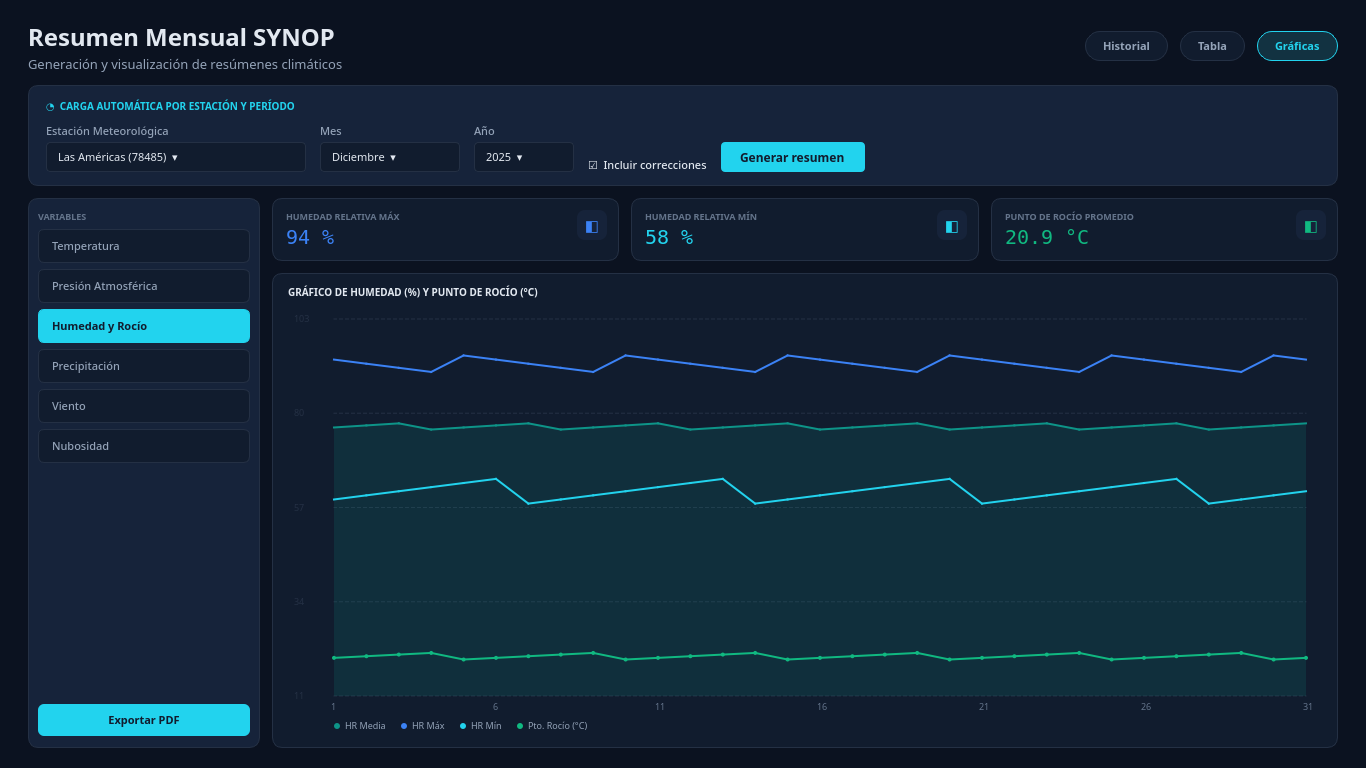
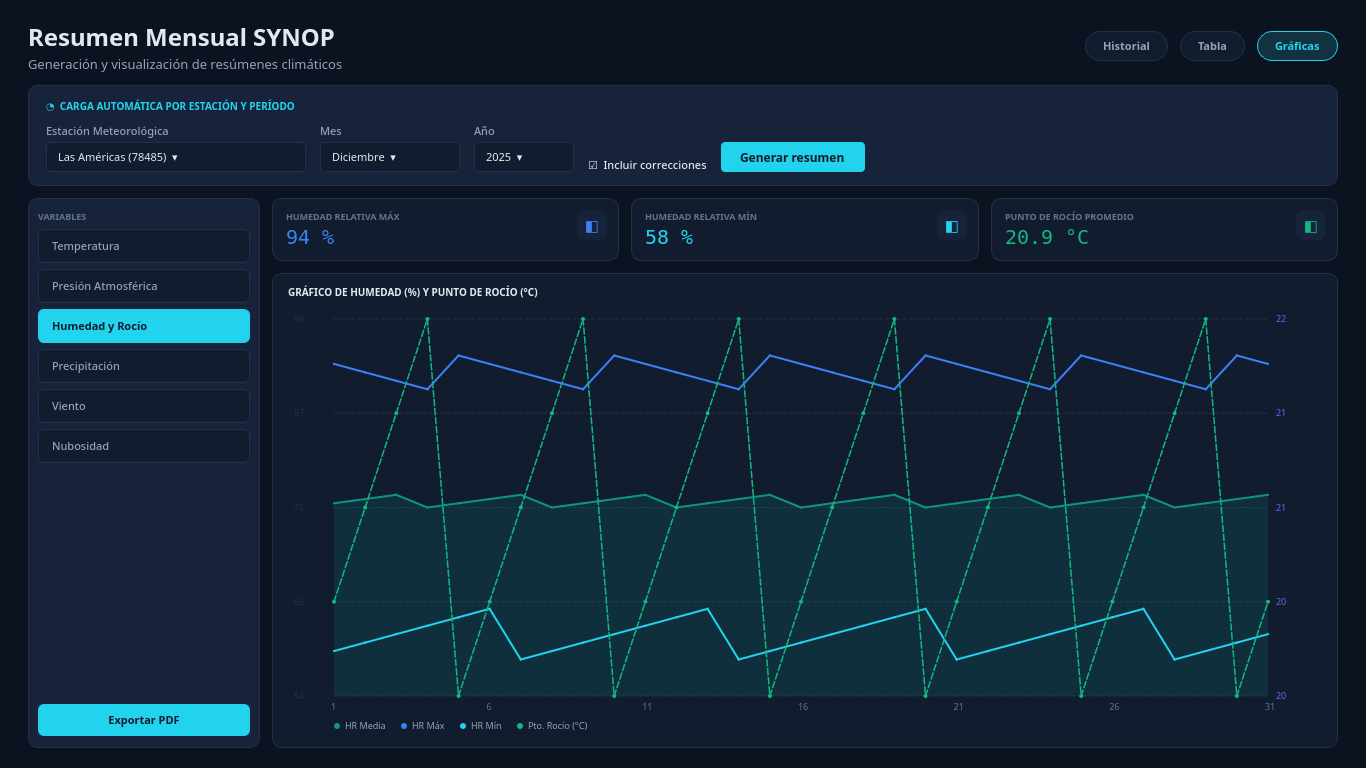
docs(diseno): resolver las tres decisiones y sumar soporte para daltonismo
D1 — una sola familia para todo, con `tnum`. Medido: la Jakarta empaquetada
tiene cifras proporcionales (1111 = 22,25 px, 0000 = 43,88 px), así que hoy
ninguna columna numérica puede alinear. Con `tnum` las cinco combinaciones
medidas dan 36,0 px. El woff2 sí lo carga Qt 6.12: no hay que cambiar formato
ni empaquetar una segunda familia.

D2 — gráficas con widget propio (QPainter), cero dependencias nuevas.

D3 — el punto de rocío pasa al eje derecho con su unidad. El mockup ya lo
muestra: izquierda 54–98 %, derecha 20–22 °C, rocío punteado.

S13 — accesibilidad al color: ninguna serie se distingue sólo por color. Se
agrega la paleta Okabe–Ito como «paleta accesible» conmutable en Apariencia y
se renderiza la humedad con las dos paletas para contrastarlas.

L7 — defecto a corregir en F7: el eje derecho repite etiquetas con rangos
chicos (22, 21, 21, 20, 20) porque redondea los cinco cortes al mismo entero.

diff --git a/tools/mockup_pantallas.py b/tools/mockup_pantallas.py
@@ -2169,12 +2169,35 @@ PANELES_B = {
 # cambia es el trazo (sin degradados: relleno plano con alfa).
 
 #: color de cada serie, tomado de OLD
-C_TMAX, C_TMIN, C_TMEDIA = "#ef4444", "#3b82f6", "#f59e0b"
-C_PMAX, C_PMIN, C_PMEDIA, C_PEST = "#ef4444", "#3b82f6", "#8b5cf6", "#64748b"
-C_HRMEDIA, C_HRMAX, C_HRMIN, C_ROCIO = "#0d9488", "#3b82f6", "#22d3ee", "#10b981"
-C_LLUVIA = "#3b82f6"
-C_VIENTO, C_RECORRIDO = "#06b6d4", "#6366f1"
-C_NUBMEDIA, C_NUBDIA, C_NUBNOCHE = "#f59e0b", "#3b82f6", "#64748b"
+_PALETA_SERIES = {
+    "tmax": "#ef4444", "tmin": "#3b82f6", "tmedia": "#f59e0b",
+    "pmax": "#ef4444", "pmin": "#3b82f6", "pmedia": "#8b5cf6", "pest": "#64748b",
+    "hrmedia": "#0d9488", "hrmax": "#3b82f6", "hrmin": "#22d3ee", "rocio": "#10b981",
+    "lluvia": "#3b82f6",
+    "viento": "#06b6d4", "recorrido": "#6366f1",
+    "nubmedia": "#f59e0b", "nubdia": "#3b82f6", "nubnoche": "#64748b",
+}
+
+#: Okabe–Ito: las ocho clases de color que se distinguen bajo cualquier tipo de
+#: daltonismo. Es la «Paleta accesible» de Configuración → Apariencia.
+_PALETA_SERIES_CVD = {
+    "tmax": "#D55E00", "tmin": "#0072B2", "tmedia": "#E69F00",
+    "pmax": "#D55E00", "pmin": "#0072B2", "pmedia": "#CC79A7", "pest": "#999999",
+    "hrmedia": "#009E73", "hrmax": "#0072B2", "hrmin": "#56B4E9", "rocio": "#CC79A7",
+    "lluvia": "#0072B2",
+    "viento": "#0072B2", "recorrido": "#E69F00",
+    "nubmedia": "#E69F00", "nubdia": "#0072B2", "nubnoche": "#999999",
+}
+if os.environ.get("OMS_MOCKUP_CVD"):
+    _PALETA_SERIES = _PALETA_SERIES_CVD
+
+_C = _PALETA_SERIES
+C_TMAX, C_TMIN, C_TMEDIA = _C["tmax"], _C["tmin"], _C["tmedia"]
+C_PMAX, C_PMIN, C_PMEDIA, C_PEST = _C["pmax"], _C["pmin"], _C["pmedia"], _C["pest"]
+C_HRMEDIA, C_HRMAX, C_HRMIN, C_ROCIO = _C["hrmedia"], _C["hrmax"], _C["hrmin"], _C["rocio"]
+C_LLUVIA = _C["lluvia"]
+C_VIENTO, C_RECORRIDO = _C["viento"], _C["recorrido"]
+C_NUBMEDIA, C_NUBDIA, C_NUBNOCHE = _C["nubmedia"], _C["nubdia"], _C["nubnoche"]
 
 GRUPOS_GRAFICA = (
     ("temp", "Temperatura", "Gráfico de Temperatura (°C)"),
@@ -2260,12 +2283,15 @@ class _GraficoGrupo(QWidget):
                 ("punteada", "Pres. Estación", "pest", C_PEST),
             ), None
         if g == "humidity":
+            # El rocío se mide en °C: lleva escala propia a la derecha, para no
+            # mezclar unidades en un mismo eje. Va punteado, además del color:
+            # la forma distingue aunque el color no se distinga.
             return (
                 ("area", "HR Media", "hummed", C_HRMEDIA),
                 ("linea", "HR Máx", "hummax", C_HRMAX),
                 ("linea", "HR Mín", "hummin", C_HRMIN),
-                ("linea", "Pto. Rocío (°C)", "rocio", C_ROCIO),
-            ), None
+                ("punteada", "Pto. Rocío (°C)", "rocio", C_ROCIO),
+            ), "rocio"
         if g == "rain":
             return (("barra", "Lluvia (mm)", "lluvia", C_LLUVIA),), None
         if g == "wind":

diff --git a/odd/tasks/implementacion-diseno.md b/odd/tasks/implementacion-diseno.md
@@ -28,11 +28,22 @@ series de las gráficas) y **desaparecen** los transicionales `acento_debil`,
 test comprueba que cada rol usado por `theme.qss` y por el código existe en las dos
 paletas.
 
-**S3 — Números en monoespaciada.** Se empaqueta una familia monoespaciada (OFL) y todo
-dato numérico —celdas de tabla, campos, valores de tarjeta— la usa con figuras
-tabulares; las etiquetas siguen en Jakarta. Verificable: un test que comprueba la familia
-asignada por el helper `mono()` y que los archivos de fuente están en
-`oms_ui/assets/fonts/`.
+**S3 — Una sola familia, cifras tabulares.** Se usa **una sola familia empaquetada**
+(Plus Jakarta Sans, que ya viaja con la app) para texto y para números: al ir en el
+paquete se ve igual en Linux, Windows y macOS. Todo dato numérico —celdas, campos,
+valores de tarjeta, ejes— lleva la característica OpenType `tnum` activada, porque la
+fuente tiene **cifras proporcionales**: hoy `1111` mide 22,25 px y `0000` mide 43,88 px,
+así que ninguna columna numérica puede alinear. Con `tnum` las cinco combinaciones
+medidas dan exactamente **36,0 px**. Verificable con `QFontMetricsF`.
+
+**S13 — Accesibilidad al color.** Ninguna serie se distingue **sólo** por color: cada
+gráfica suma forma (relleno, línea sólida, punteada, barra) y el gráfico de humedad
+separa unidades por eje. Además, Configuración → Apariencia ofrece una **paleta
+accesible** (Okabe–Ito, ocho clases distinguibles bajo cualquier tipo de daltonismo:
+`#D55E00`, `#0072B2`, `#E69F00`, `#009E73`, `#56B4E9`, `#CC79A7`, `#999999`) aplicable
+a las seis gráficas. Verificable: un test que comprueba que cada serie tiene estilo
+propio y que las dos paletas existen, y el contraste de cada color de serie contra el
+fondo de su tema (≥ 3:1).
 
 **S4 — Armazón.** Rail de 200 px expandido / 76 colapsado con el logo `OMS · Observations`
 como acceso a Inicio, seis entradas con monograma, correo y `Salir`; el estado activo se
@@ -61,8 +72,10 @@ El selector de estación/año/mes/día y el reporte conservan su contenido. Veri
 línea de metadatos; historial con `QAbstractTableModel` en vez de una tarjeta por entrada;
 pestaña **Gráficas** con el esquema de OLD: sidebar de seis variables, tres tarjetas de
 estadísticas y una caja de gráfico por variable, con el widget de dibujo propio
-(área/línea/barra, eje gemelo en viento, dominio 0–8 en nubosidad). Verificable:
-`test_f6_summary` y los tests del servicio verdes; una captura por variable y tema.
+(área/línea/barra, eje gemelo en viento, **eje derecho para el punto de rocío**, dominio
+0–8 en nubosidad) y las dos paletas de serie de S13. Verificable:
+`test_f6_summary` y los tests del servicio verdes; una captura por variable y tema, más
+una de la humedad con la paleta accesible.
 
 **S9 — Transformar y Configuración.** Trazo nuevo y, en Transformar, la conversión en un
 worker con progreso por archivo y botón deshabilitado mientras corre (hoy corre en el hilo
@@ -90,13 +103,13 @@ aparte) y termina con capturas nuevas en `Migración/evidencias/DISENO/`.
 
 | ID | Fase | Alcance | Riesgo | Esfuerzo |
 |---|---|---|---|---|
-| F1 | **Base de estilo** | S2, S3: roles de datos en `theme.py`, fuente mono empaquetada, helper `mono()`/`estilo()` que devuelve la hoja por rol, retirar los roles transicionales | Bajo | 3 h |
+| F1 | **Base de estilo** | S2, S3: roles de datos en `theme.py`, helper de fuente con `tnum`, helper `estilo()` que devuelve la hoja por rol, retirar los roles transicionales | Bajo | 3 h |
 | F2 | **Armazón** | S4: `main_window.py` (rail, activo por propiedad, barra de estado), `theme.qss` con `QPushButton[active]` | Bajo | 4 h |
 | F3 | **Login** | S10: `login_window.py`, sacar el emoji, alinear la tarjeta al mockup | Bajo | 2 h |
 | F4 | **Sinóptico** | S5: 40 inline fuera, etiquetas de texto, campos de 34 px, riel derecho, fuera `HOUR_THEMES` del fondo, título en tinta | **Alto** | 12 h |
 | F5 | **CLI** | S6: 67 inline entre los tres, `OBS.` uniforme, carriles fijos, títulos legibles | Medio | 8 h |
 | F6 | **Auditoría** | S7: 35 inline en `audit_observation.py` + las otras tres vistas; cola, historial y estado por campo | **Alto** | 10 h |
-| F7 | **Resumen** | S8: tabla, historial con modelo y las seis gráficas con widget propio | **Alto** | 12 h |
+| F7 | **Resumen** | S8, S13: tabla, historial con modelo, las seis gráficas con widget propio, rocío en eje derecho y paleta accesible | **Alto** | 12 h |
 | F8 | **Transformar y Configuración** | S9: trazo nuevo y conversion en worker con progreso | Medio | 6 h |
 | F9 | **Cierre** | S1, S11: `grep` de literales en cero, 27 asserts migrados, capturas definitivas, borrar `tools/mockup_pantallas.py` | Medio | 3 h |
 
@@ -121,17 +134,20 @@ que lo contenga todo. Tres PRs encadenados, cada uno con la suite verde y sus ca
 - **PR 2 — Captura de datos**: F4, F5 (Sinóptico y los tres CLI).
 - **PR 3 — Análisis y administración**: F6, F7, F8, F9.
 
-## Decisiones que necesito antes de F1
+## Decisiones resueltas
 
-1. **Fuente monoespaciada**: empaquetar **JetBrains Mono** (OFL, 4 pesos ≈ 200 KB) o usar la
-   mono del sistema. Empaquetarla es lo único que da el mismo ancho de cifra en Windows,
-   macOS y Linux; la del sistema cambia en cada máquina y rompe la alineación de columnas.
-2. **Gráficas**: widget propio con `QPainter` (cero dependencias, y el código del mockup ya
-   lo resuelve) o **QtCharts** (trae ejes, tooltips y leyenda, pero suma superficie LGPL y
-   su estilizado es limitado). Recomendación: widget propio.
-3. **La escala mixta de OLD**: su gráfico de humedad pone **%** y **°C** (rocío) en el mismo
-   eje. Dejarlo tal cual porque es OLD, o mover el rocío a un eje derecho como el recorrido
-   del viento. Recomendación: eje derecho, para no invitar a leer una correlación falsa.
+**D1 — Tipografía (dueño, L4):** una fuente estándar para todo, igual en los tres
+sistemas. Se queda la familia ya empaquetada y se resuelve la alineación numérica con
+`tnum`, medido: todas las cifras pasan a 36,0 px. No entra una segunda familia.
+
+**D2 — Gráficas (dueño, L4):** widget propio con `QPainter`. Cero dependencias nuevas; el
+código del mockup es la semilla de la implementación y se conservan series, colores y
+tipos de OLD.
+
+**D3 — Escala mixta (dueño, L4):** el punto de rocío pasa a **eje derecho** con su unidad,
+como el recorrido del viento. Se conservan los códigos de color en las seis gráficas y,
+además, se agrega soporte para daltonismo (S13): forma redundante en cada serie y una
+paleta accesible conmutalbe.
 
 ## Log
 
@@ -144,3 +160,23 @@ una sola familia tipográfica empaquetada.
 **L3** — El trabajo de diseño previo dejó listo: `PALETTE` con 42 roles en cada tema,
 `theme.qss` sin literales, los cuatro estados, el conmutador de tema, cero degradados y
 cero propiedades que Qt ignora. Las fases de este plan asumen eso como base, no lo repiten.
+
+**L4** — Respuesta del dueño a las tres decisiones, textual: «1. Usemos una fuente estandar
+para todo, tantpo para Linux, Windows y Mac. 2. Pues trabajemos los charts con Widgets
+propios, 3. Movamos elpunto de rocio al eje derecho, pero manteniend códigos de colores en
+todas las gráficas, así de forma visual es más probable que s einterprete el gráfico mejor,
+De paso agrega soporte para personas daltónicas.»
+
+**L5** — Medición que sostiene D1: la familia empaquetada tiene cifras proporcionales
+(`1111` 22,25 px, `0000` 43,88 px) y con `tnum` las cinco combinaciones dan 36,0 px. Sin
+`tnum`, ninguna columna numérica puede alinear. El `woff2` sí lo carga Qt 6.12
+(`addApplicationFont` devuelve la familia), así que no hace falta cambiar el formato.
+
+**L6** — Soporte de daltonismo (S13) en la app, no sólo en el mockup: la paleta Okabe–Ito
+queda como opción de Configuración → Apariencia, junto con la forma redundante de cada
+serie. Se descarta distinguir series sólo por color.
+
+**L7** — Defecto detectado al revisar el render de humedad, a corregir en F7: el eje derecho
+repite etiquetas cuando el rango es chico (22, 21, 21, 20, 20) porque los cinco cortes se
+redondean al mismo entero. El widget de la app calcula el paso con «números lindos» según
+el rango antes de dibujar, y un test lo fija sobre un rango de 19–22 °C.
